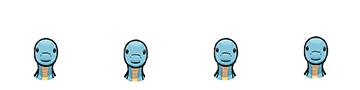
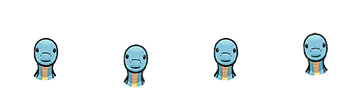
herbivore enemies have rough animation too

Changed region(s): [[0.3361, 0.4222, 0.4278, 0.9778], [0.825, 0.3556, 0.9167, 0.8889]]

diff --git a/core/src/tiktaalik/trino/Level.java b/core/src/tiktaalik/trino/Level.java
@@ -623,10 +623,10 @@ public class Level {
                         filmStripDict.get("carnivoreEatingFront"), 12);
             }
             else {
-                en.setTextureSet(filmStripDict.get("herbivoreLeft"), 7,
-                        filmStripDict.get("herbivoreRight"), 7,
-                        filmStripDict.get("herbivoreBack"), 8,
-                        filmStripDict.get("herbivoreFront"), 8);
+                en.setTextureSet(filmStripDict.get("herbivoreSwimmingLeft"), 8,
+                        filmStripDict.get("herbivoreSwimmingRight"), 8,
+                        filmStripDict.get("herbivoreSwimmingBack"), 4,
+                        filmStripDict.get("herbivoreSwimmingFront"), 4);
             }
             en.setDirection(d);
             en.setEnemyType(type);
